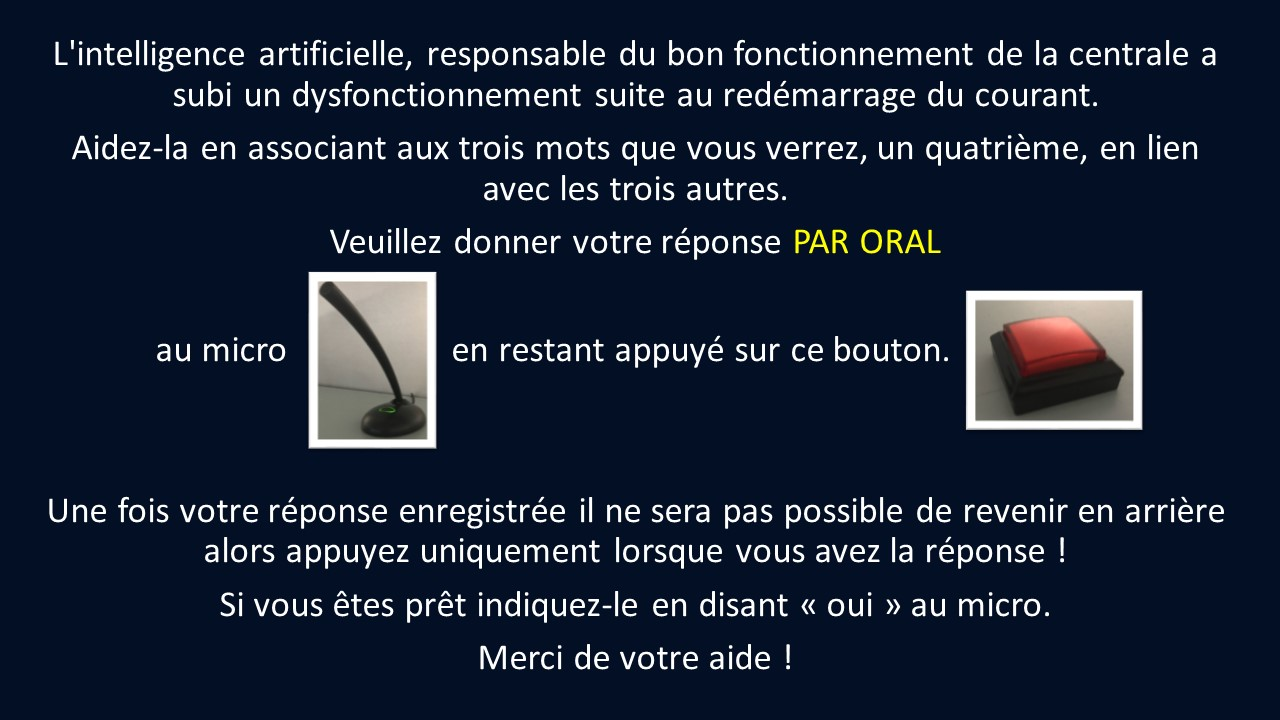
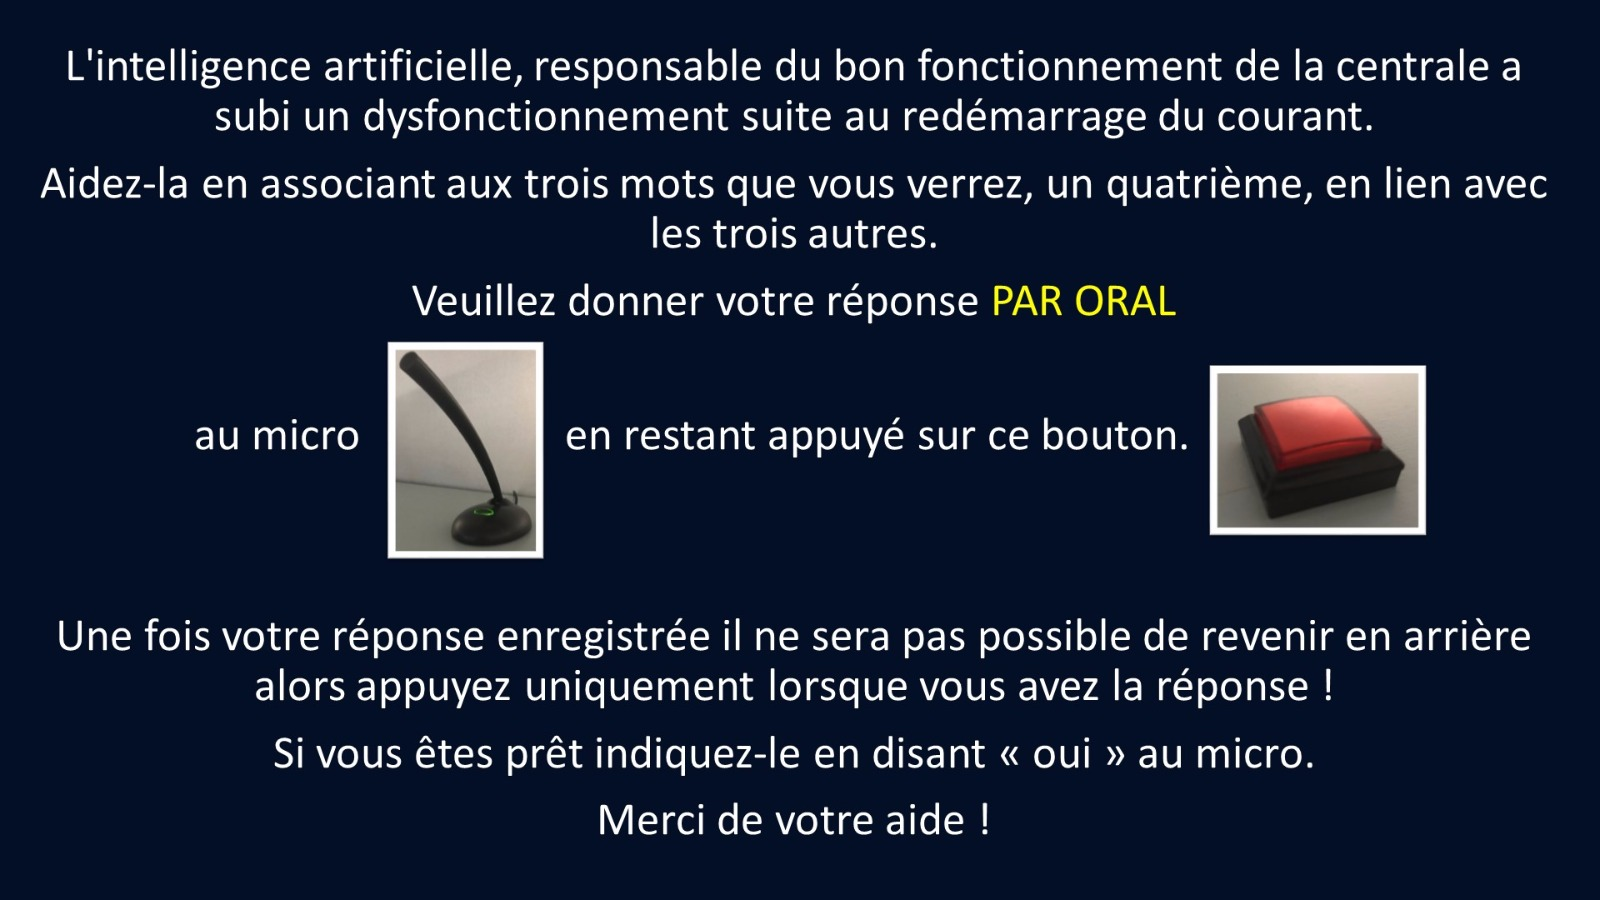
feat: add wason consigne

diff --git a/views/wason.js b/views/wason.js
@@ -62,7 +62,15 @@ socket.on('wason-animation', function() {
   )
 });
 const launchSocket = () => {
-  socket.emit('wason-connected');
+  setTimeout(() => socket.emit('wason-connected'), 25000);
+  ReactDOM.render(
+    (
+    <div style={{'overflow': 'hidden'}}>
+      <img style={{'width': 1920, 'height': 1080}} src='images/consigne_wason.jpg' />
+    </div>
+    ),
+    document.getElementById('main')
+  )
 }
 launchSocket();
 socket.on('connect', () => launchSocket());

diff --git a/gpio.js b/gpio.js
@@ -1,11 +1,11 @@
-//const gpio = require('rpi-gpio');
+const gpio = require('rpi-gpio');
 const EventEmitter = require('events');
-class gpio {
-   static get DIR_IN() {}
-   static get EDGE_BOTH() {}
-   static setup() { }
-   static on() { }
-}
+//class gpio {
+//   static get DIR_IN() {}
+//   static get EDGE_BOTH() {}
+//   static setup() { }
+//   static on() { }
+//}
 const gpioListener = new EventEmitter();
 gpioListener.setMaxListeners(50);
 
